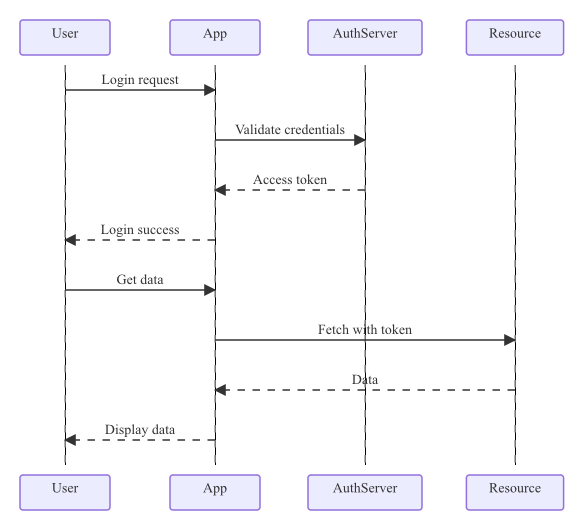
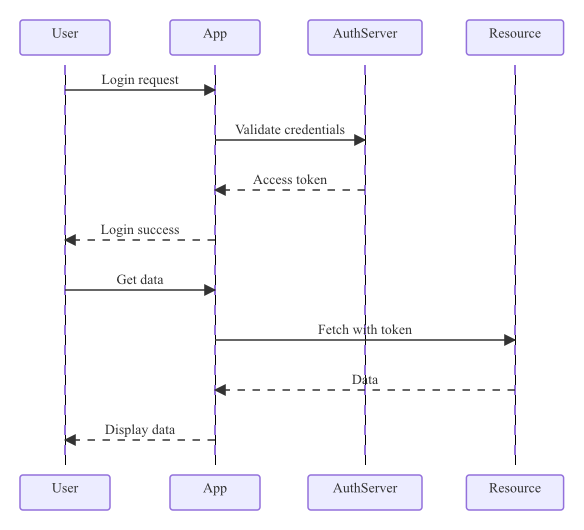
seq V1: lifeline color theme integration (#113)
* seq V1: lifeline color/weight theme integration (#113)

Change default lifeline stroke from thin gray (#999, 1.5px) to thick
purple (#9370DB, 2px) matching mmdc's --actorLineColor. Add tests for
default theme color and custom theme override.

* address review: precompute lifeline style, tighten test regex, fix config theme divergence

- Fix critical: toSequenceTheme no longer overrides LifelineStroke from
  config LineColor, letting renderer default (#9370DB) take effect
- Precompute lifeline style string above loop (avoids per-participant
  fmt.Sprintf)
- Merge redundant TestRenderLifelines into TestRenderLifelineUsesThemeColor
- Tighten test regex to match stroke-width:2.0 (lifeline-specific)
- Use DefaultTheme() constants in assertions instead of hardcoded strings
- Hoist lifelineStyleRe to package-level var

diff --git a/pkg/renderer/sequence/renderer_test.go b/pkg/renderer/sequence/renderer_test.go
@@ -3,6 +3,7 @@ package sequence
 import (
 	"bytes"
 	"encoding/xml"
+	"fmt"
 	"math"
 	"regexp"
 	"strconv"
@@ -73,7 +74,7 @@ func TestRenderActorDrawsDifferently(t *testing.T) {
 	assertValidSVG(t, out)
 }
 
-func TestRenderLifelines(t *testing.T) {
+func TestRenderLifelineUsesThemeColor(t *testing.T) {
 	d := &diagram.SequenceDiagram{
 		Participants: []diagram.Participant{
 			{ID: "A", Kind: diagram.ParticipantKindParticipant, CreatedAtItem: -1, DestroyedAtItem: -1},
@@ -90,10 +91,42 @@ func TestRenderLifelines(t *testing.T) {
 	if err != nil {
 		t.Fatalf("Render: %v", err)
 	}
-	// Lifelines are dashed vertical lines — check for stroke-dasharray.
 	raw := string(out)
+
+	wantStyle := fmt.Sprintf("stroke:%s;stroke-width:%.1f;stroke-dasharray:5,5", DefaultTheme().LifelineStroke, defaultLifelineWidth)
+	if !strings.Contains(raw, wantStyle) {
+		t.Errorf("lifeline should use theme style %q", wantStyle)
+	}
 	if !strings.Contains(raw, "stroke-dasharray") {
 		t.Error("expected dashed lifeline (stroke-dasharray)")
+	}
+	assertValidSVG(t, out)
+}
+
+func TestRenderLifelineCustomTheme(t *testing.T) {
+	d := &diagram.SequenceDiagram{
+		Participants: []diagram.Participant{
+			{ID: "A", Kind: diagram.ParticipantKindParticipant, CreatedAtItem: -1, DestroyedAtItem: -1},
+			{ID: "B", Kind: diagram.ParticipantKindParticipant, CreatedAtItem: -1, DestroyedAtItem: -1},
+		},
+		Items: []diagram.SequenceItem{
+			diagram.NewMessageItem(diagram.Message{
+				From: "A", To: "B", Label: "hello",
+				ArrowType: diagram.ArrowTypeSolid,
+			}),
+		},
+	}
+	out, err := Render(d, &Options{
+		Theme: Theme{LifelineStroke: "#00ff00"},
+	})
+	if err != nil {
+		t.Fatalf("Render: %v", err)
+	}
+	raw := string(out)
+	for _, m := range lifelineStyleRe.FindAllString(raw, -1) {
+		if !strings.Contains(m, "stroke:#00ff00") {
+			t.Errorf("lifeline should use custom color #00ff00, got: %s", m)
+		}
 	}
 	assertValidSVG(t, out)
 }
@@ -284,10 +317,11 @@ func TestRenderAutoNumberEmitsCircleBadge(t *testing.T) {
 }
 
 var (
-	circleRe   = regexp.MustCompile(`<circle[^>]*cx="([^"]+)"[^>]*r="10\.00"`)
-	lineRe     = regexp.MustCompile(`<line x1="([^"]+)" y1="[^"]+" x2="([^"]+)"`)
-	msgLineYRe = regexp.MustCompile(`<line x1="[\d.]+" y1="([\d.]+)" x2="[\d.]+" y2="([\d.]+)" style="stroke:#333`)
-	fillRectRe = regexp.MustCompile(`<rect[^>]*y="([\d.]+)"[^>]*height="([\d.]+)"[^>]*fill:#[0-9a-fA-F]{6}`)
+	circleRe        = regexp.MustCompile(`<circle[^>]*cx="([^"]+)"[^>]*r="10\.00"`)
+	lineRe          = regexp.MustCompile(`<line x1="([^"]+)" y1="[^"]+" x2="([^"]+)"`)
+	msgLineYRe      = regexp.MustCompile(`<line x1="[\d.]+" y1="([\d.]+)" x2="[\d.]+" y2="([\d.]+)" style="stroke:#333`)
+	fillRectRe      = regexp.MustCompile(`<rect[^>]*y="([\d.]+)"[^>]*height="([\d.]+)"[^>]*fill:#[0-9a-fA-F]{6}`)
+	lifelineStyleRe = regexp.MustCompile(`<line[^>]*stroke-width:2\.0[^>]*stroke-dasharray[^>]*>`)
 )
 
 func autoNumberCircleCX(raw string) (float64, bool) {

diff --git a/pkg/renderer/sequence/renderer.go b/pkg/renderer/sequence/renderer.go
@@ -386,6 +386,7 @@ func renderActor(cx, topY float64, label string, th Theme, fontSize float64) []a
 
 func renderLifelines(d *diagram.SequenceDiagram, lay seqLayout, th Theme, createY, destroyY map[string]float64) []any {
 	var elems []any
+	lifelineStyle := fmt.Sprintf("stroke:%s;stroke-width:%.1f;stroke-dasharray:5,5", th.LifelineStroke, defaultLifelineWidth)
 	for i, p := range d.Participants {
 		x := lay.participantX[i]
 		startY := lay.bodyStartY
@@ -400,7 +401,7 @@ func renderLifelines(d *diagram.SequenceDiagram, lay seqLayout, th Theme, create
 			elems = append(elems, &line{
 				X1: svgFloat(x), Y1: svgFloat(startY),
 				X2: svgFloat(x), Y2: svgFloat(endY),
-				Style: fmt.Sprintf("stroke:%s;stroke-width:%.1f;stroke-dasharray:5,5", th.LifelineStroke, defaultStrokeWidth),
+				Style: lifelineStyle,
 			})
 		}
 	}

diff --git a/pkg/renderer/sequence/theme.go b/pkg/renderer/sequence/theme.go
@@ -9,6 +9,7 @@ const (
 	defaultBoxPadY        = 10.0
 	defaultBoxHeight      = 35.0
 	defaultStrokeWidth    = 1.5
+	defaultLifelineWidth  = 2.0
 	defaultActorHeadR     = 12.0
 	defaultActorBodyH     = 28.0
 )
@@ -36,7 +37,7 @@ func DefaultTheme() Theme {
 		ParticipantFill:   "#ECECFF",
 		ParticipantStroke: "#9370DB",
 		ParticipantText:   "#333",
-		LifelineStroke:    "#999",
+		LifelineStroke:    "#9370DB",
 		MessageStroke:     "#333",
 		MessageText:       "#333",
 		NoteFill:          "#ffffcc",

diff --git a/pkg/output/svg/svg.go b/pkg/output/svg/svg.go
@@ -634,7 +634,7 @@ func toSequenceTheme(tc *config.ThemeColors) sequencerenderer.Theme {
 		ParticipantFill:   tc.Secondary,
 		ParticipantStroke: tc.LineColor,
 		ParticipantText:   tc.Text,
-		LifelineStroke:    tc.LineColor,
+		LifelineStroke:    "",
 		MessageStroke:     tc.LineColor,
 		MessageText:       tc.Text,
 		NoteFill:          tc.NoteFill,
